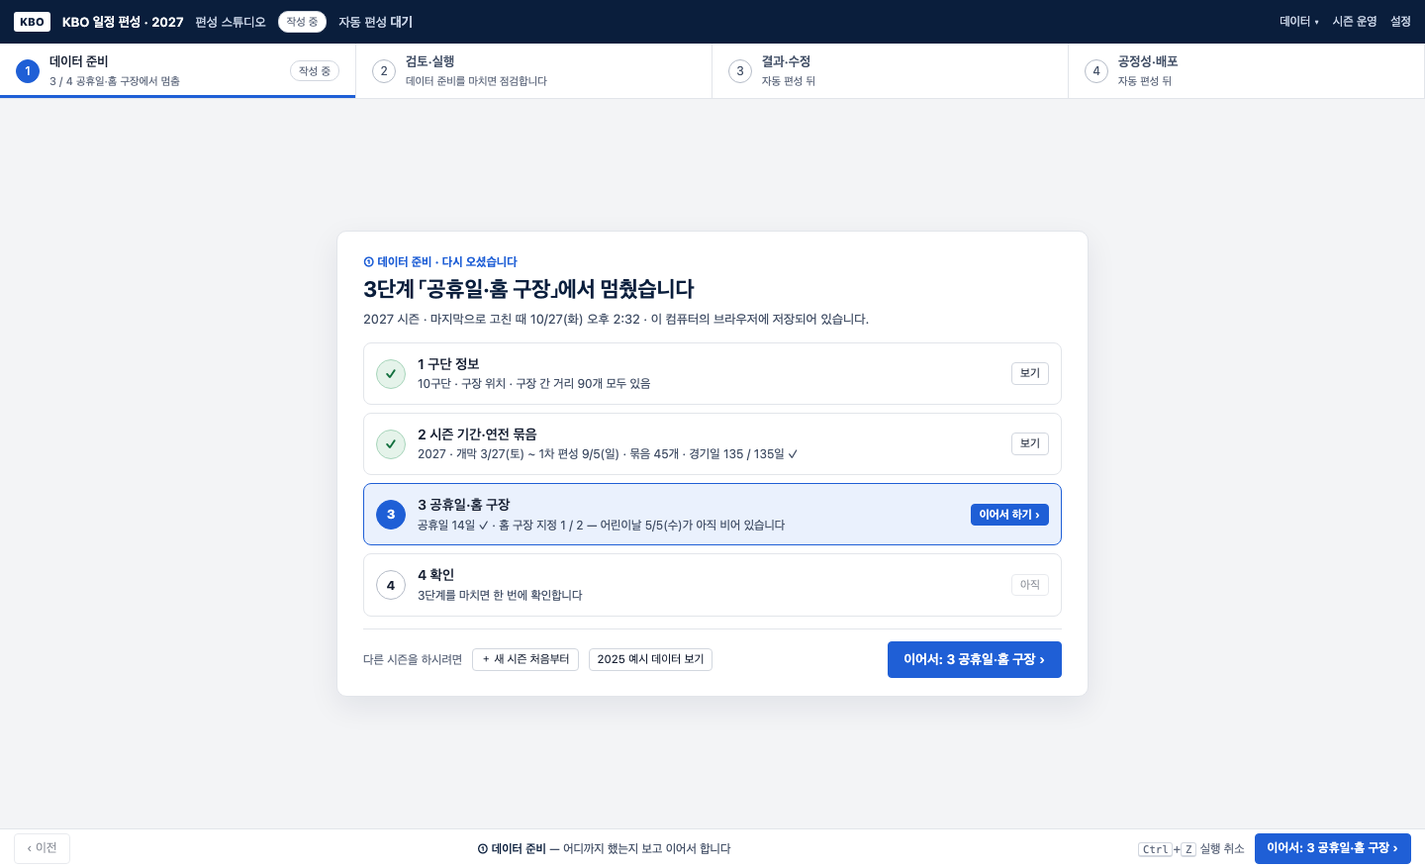
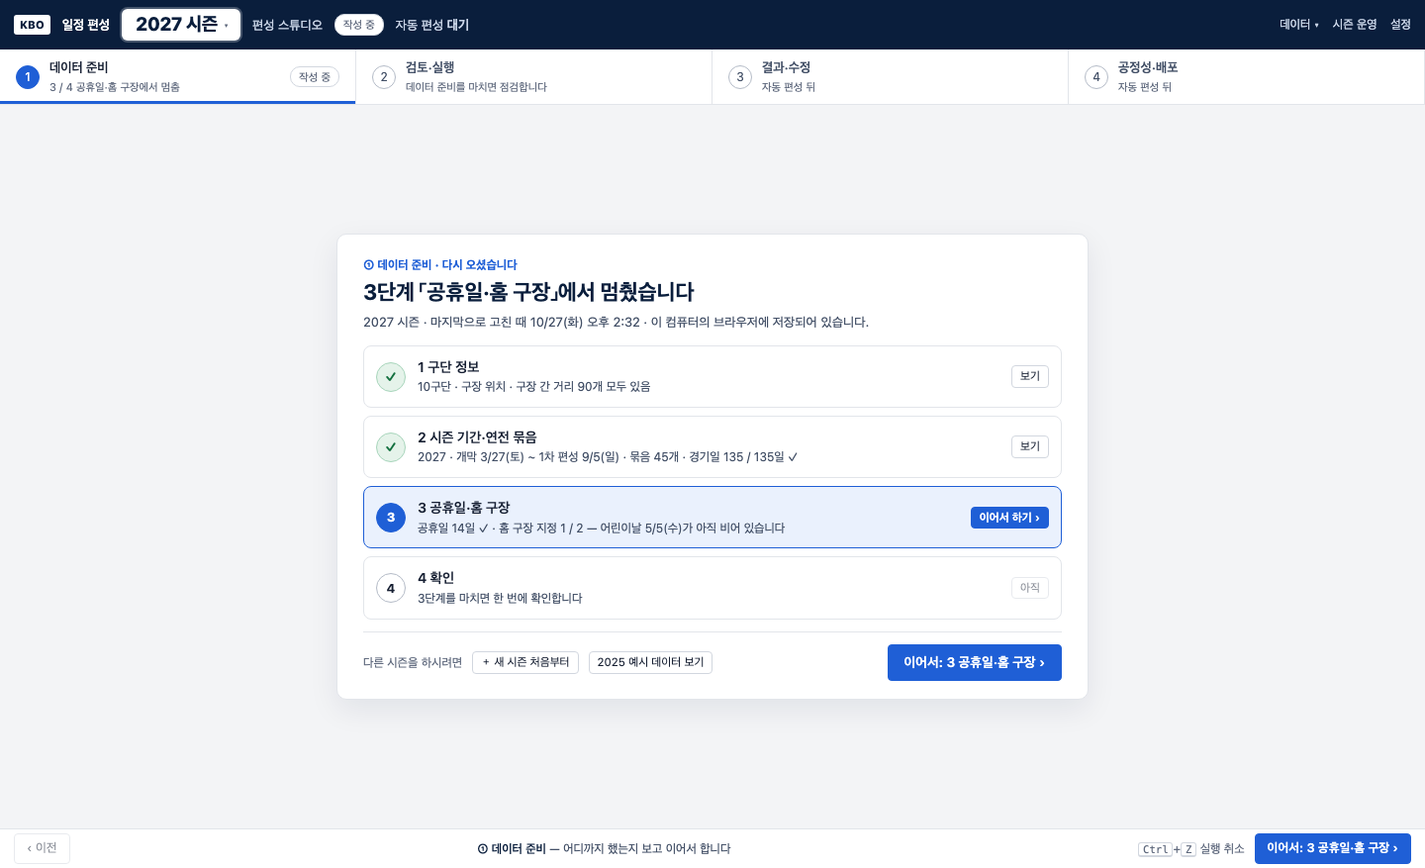
① 단계 흐름 시안: 맨 먼저 시즌 연도 고르기(오늘 기준 2년 뒤까지, 데이터 있음·저장됨·없음 카드) — 고른 연도는 상단 띠 왼쪽에 크게 늘 보이고 모든 단계에 그대로, 2단계는 개막일만.

Changed region(s): [[0.25, 0.2771, 0.75, 0.8312], [0.0, 0.0, 1.0, 0.1231]]

diff --git a/ui-archive/step-flow-concepts/index.html b/ui-archive/step-flow-concepts/index.html
@@ -17,19 +17,28 @@ ul{margin:4px 0;padding-left:20px} li{margin:3px 0}
 a{color:#1F5FD6}
 </style></head><body><main>
 <h1>① 데이터 준비 — 단계 흐름 시안</h1>
-<p class="lead">2026-10-29 사용자와 정한 것: ① 안을 4단계로 나누고, 지금 어느 단계인지 늘 보이게, 비어 있으면 그 자리에서 따라 하기로 안내, 다시 들어오면 「어디까지 했는지」 한 장부터. 데이터는 이 브라우저에 저장(DB는 나중에). 정적 시안이라 실제 화면은 아직 바꾸지 않았습니다.</p>
-<div class="box"><b>순서</b><div class="flow"><span>1 구단 정보</span>→<span class="b">2 시즌 기간·연전 묶음 (같이)</span>→<span class="b">3 공휴일·홈 구장 (같은 달력)</span>→<span>4 확인</span>→<span>② 검토·실행</span></div>
-<ul><li><b>단계 띠</b>: 위 ①~④ 아래에 ① 안의 4단계를 늘 보여 줍니다. 단계마다 상태 한 줄(「✓ 경기일 135 / 135일」, 「개막일을 골라 주세요」)과 <b>「지금 여기」</b>. 끝난 단계는 초록, 지금은 파랑.</li>
-<li><b>2단계는 손이 거의 안 가게</b>: 정할 것은 시즌 연도와 개막일(토요일 중 고르기)뿐. 1차 편성 종료일은 「경기일 135일이 되는 날」로, 올스타 휴식기는 7월 둘째 금요일로, 연전 묶음은 2025 공식 일정표 관행대로 자동. 고칠 곳만 달력에서 끕니다.</li>
+<p class="lead">2026-10-29 사용자와 정한 것: <b>맨 먼저 시즌 연도</b>(오늘 기준 2년 뒤까지, 고르면 위쪽에 크게 늘 보이고 모든 단계에 그대로 적용), ① 안을 4단계로 나누고, 지금 어느 단계인지 늘 보이게, 비어 있으면 그 자리에서 따라 하기로 안내, 다시 들어오면 「어디까지 했는지」 한 장부터. 데이터는 이 브라우저에 저장(DB는 나중에). 정적 시안이라 실제 화면은 아직 바꾸지 않았습니다.</p>
+<div class="box"><b>순서</b><div class="flow"><span class="b">시즌 연도</span>→<span>1 구단 정보</span>→<span class="b">2 시즌 기간·연전 묶음 (같이)</span>→<span class="b">3 공휴일·홈 구장 (같은 달력)</span>→<span>4 확인</span>→<span>② 검토·실행</span></div>
+<ul><li><b>시즌 연도가 맨 먼저</b>: 그 해 데이터가 있으면(2025 기본 제공 · 이 브라우저에 저장한 해) 「어디까지 했는지」로, 없으면 1 구단 정보부터 새로 입력. 데이터는 연도별로 저장.</li>
+<li><b>단계 띠</b>: 위 ①~④ 아래에 ① 안의 4단계를 늘 보여 줍니다. 단계마다 상태 한 줄(「✓ 경기일 135 / 135일」, 「개막일을 골라 주세요」)과 <b>「지금 여기」</b>. 끝난 단계는 초록, 지금은 파랑.</li>
+<li><b>2단계는 손이 거의 안 가게</b>: 연도는 이미 정했으니 정할 것은 개막일(토요일 중 고르기) 하나뿐. 1차 편성 종료일은 「경기일 135일이 되는 날」로, 올스타 휴식기는 7월 둘째 금요일로, 연전 묶음은 2025 공식 일정표 관행대로 자동. 고칠 곳만 달력에서 끕니다.</li>
 <li><b>3단계는 2단계가 끝난 뒤 같은 달력에서</b>: 공휴일 표(가중치)와 날을 눌러 홈 구장 지정. 공휴일을 바꿔 묶음 규칙이 달라지면 「묶음에 반영할까요?」를 묻습니다.</li>
 <li><b>데이터가 이미 있으면</b> 단계를 하나씩 눌러 확인합니다(4 확인 화면의 「고치기」).</li></ul></div>
 
-<h2>0 · 다시 왔을 때 — 어디까지 했는지</h2>
+<h2>추천: 시즌 연도는 상단 띠 왼쪽, 로고 바로 뒤에 크게</h2>
+<div class="box"><ul>
+<li><b>자리</b>: 맨 위 남색 띠의 왼쪽, 「KBO 일정 편성」 바로 뒤. 흰 바탕에 큰 글자 「<b>2027 시즌 ▾</b>」. ① 데이터 준비뿐 아니라 ② 검토·실행 · ③ 결과·수정 · ④ 공정성·배포 · 시즌 운영 모든 화면에서 같은 자리에 늘 보입니다.</li>
+<li><b>왜 여기</b>: 화면을 열면 눈이 가장 먼저 가는 왼쪽 위이고, 남색 띠 위의 흰 칸이라 다른 것과 섞이지 않습니다. 연도는 ①만이 아니라 편성 전체(②~④)에 걸리는 값이라 모든 단계 위에 있어야 맞습니다. 누르면 연도 고르기(지금 연도는 저장해 두고 넘어감).</li>
+<li><b>한 번 더</b>: ① 안의 단계 띠 앞머리에도 「2027 시즌 · ① 데이터 준비」로 적어, 단계 띠만 봐도 어느 해인지 알 수 있게 했습니다.</li>
+<li><b>고려했다 뺀 자리</b>: 왼쪽 카드 맨 위(①에서만 보이고 ②~④에서 사라짐), 스테퍼 위 큰 제목 줄(세로 공간을 한 줄 더 씀 — 1440×877에서 달력이 줄어듦).</li></ul></div>
+<h2>00 · 맨 먼저 — 시즌 연도 고르기</h2>
+<figure><a href="s00-year.html"><img src="shots/s00-year.png" alt=""></a><figcaption><b>연도 카드 네 장(2025 ~ 오늘 기준 2년 뒤 2028).</b> 카드마다 그 해 데이터가 있는지(있음 · 이 브라우저에 저장됨 · 없음)와 할 일(열기 · 이어서 하기 · 새로 입력). 새 연도는 가장 최근 해의 구단 정보를 가져와 시작합니다. 위쪽 띠의 연도 칸은 고르기 전이라 「시즌 연도를 고르세요」.</figcaption></figure>
+<h2>0 · 그 해 데이터가 있을 때 — 어디까지 했는지</h2>
 <figure><a href="s0-resume.html"><img src="shots/s0-resume.png" alt=""></a><figcaption><b>들어오자마자 이 한 장.</b> 단계마다 완료/진행 중/아직과 들어 있는 것 한 줄, 멈춘 단계에 「이어서 하기」. 마지막으로 고친 때와 「이 브라우저에 저장됨」. 새 시즌·예시 데이터도 여기서.</figcaption></figure>
 <h2>1 · 구단 정보</h2>
 <figure><a href="s1-teams.html"><img src="shots/s1-teams.png" alt=""></a><figcaption><b>질문 하나: 「올해 구장이 바뀐 구단이 있나요?」</b> 없으면 그대로 「다음」. 있으면 지금 구단 정보 화면(구장 찾기·지도·거리)에서 고칩니다. 아래 「다음 단계」 상자로 뒤에 무엇이 오는지 미리 보여 줍니다.</figcaption></figure>
 <h2>2 · 시즌 기간·연전 묶음 — 비어 있을 때 (따라 하기 1 / 3)</h2>
-<figure><a href="s2-empty.html"><img src="shots/s2-empty.png" alt=""></a><figcaption><b>2027 새 시즌.</b> 연도를 고르면 주말·공휴일이 달력에 먼저 보이고, 개막일은 토요일 세 개 중 고르기(추천 표시). 나머지는 「자동」으로 접혀 있습니다. 따라 하기 카드가 지금 할 일 하나만 가리킵니다. 「다음」은 개막일을 고르기 전까지 흐립니다.</figcaption></figure>
+<figure><a href="s2-empty.html"><img src="shots/s2-empty.png" alt=""></a><figcaption><b>2027 새 시즌.</b> 처음에 고른 연도의 주말·공휴일이 달력에 먼저 보이고, 개막일은 토요일 세 개 중 고르기(추천 표시). 나머지는 「자동」으로 접혀 있습니다. 따라 하기 카드가 지금 할 일 하나만 가리킵니다. 「다음」은 개막일을 고르기 전까지 흐립니다.</figcaption></figure>
 <h2>2 · 시즌 기간·연전 묶음 — 개막일을 고른 뒤 (따라 하기 2 / 3)</h2>
 <figure><a href="s2-filled.html"><img src="shots/s2-filled.png" alt=""></a><figcaption><b>3/27(토)를 누르면 끝.</b> 1차 편성 종료일 9/5(일)(경기일 135일이 되는 날), 올스타 7/9~7/14, 8/16(월) 대체공휴일 경기·8/19(목) 휴식까지 자동으로 채우고 묶음 45개 · 135일. 자동으로 채운 것은 「자동」 표시와 이유를 붙여 보여 줍니다. 고칠 곳만 끌거나 누릅니다.</figcaption></figure>
 <h2>3 · 공휴일·홈 구장 — 같은 달력에서 (따라 하기 3 / 3)</h2>
@@ -38,6 +47,7 @@ a{color:#1F5FD6}
 <figure><a href="s4-check.html"><img src="shots/s4-check.png" alt=""></a><figcaption><b>한 장에 모두.</b> 단계별 요약과 「고치기」(그 단계로), 시리즈는 규칙대로 자동으로 만들었다는 한 줄. 데이터가 이미 있는 사람도 여기서 하나씩 눌러 확인합니다.</figcaption></figure>
 
 <div class="box q"><b>여쭤볼 것</b><ul>
+<li>새 연도는 가장 최근 해의 구단 정보를 가져와 시작하면 될까요(시안)? 아니면 비워 두고 처음부터?</li>
 <li>단계 띠(① 아래 4칸)가 지금 어디인지 충분히 보이나요? 아니면 왼쪽 세로 목록이 나을까요?</li>
 <li>2단계에서 개막일을 고르면 바로 묶음을 깔까요(시안), 아니면 「규칙대로 채우기」를 한 번 누르게 할까요?</li>
 <li>따라 하기는 단계마다 처음 한 번씩(시안: 2단계 1·2, 3단계 3)이면 될까요?</li>

diff --git a/ui-archive/step-flow-concepts/s2-empty.html b/ui-archive/step-flow-concepts/s2-empty.html
@@ -4,14 +4,14 @@ const y = 2027, S = { seasonStart: '', initialEnd: '', seasonEnd: '', restWeekda
 const D = Concept.D, sats = ['2027-03-20', '2027-03-27', '2027-04-03'];
 document.querySelector('.body').innerHTML =
   '<aside class="card" style="width:360px"><div class="kick">2 / 4단계</div><h2>시즌 기간·연전 묶음</h2>' +
-  '<p>정할 것은 <b>시즌 연도와 개막일</b>뿐입니다. 고르면 1차 편성 종료일과 연전 묶음(2·3·4연전)을 2025 공식 일정표의 관행대로 채우고, 달력에서 고칠 곳만 끌어서 고칩니다.</p>' +
-  '<div class="ask ok"><div class="q"><span class="no">✓</span>몇 년 시즌인가요?</div><div class="a"><span class="sel">2027 ▾</span></div><div class="why">고르면 그 해 주말·공휴일이 달력에 먼저 보입니다.</div></div>' +
-  '<div class="ask now"><div class="q"><span class="no">2</span>개막일은 언제인가요? <span class="stat blue">지금</span></div><div class="a chips">' + sats.map((d, i) => '<span class="chip' + (i === 1 ? ' rec' : '') + '">' + D.fmt(D.dn(d)) + (i === 1 ? '<small>작년과 같은 주</small>' : '') + '</span>').join('') + '<span class="chip">다른 날…</span></div><div class="why">개막은 늘 토요일(토·일 2연전)이라 토요일만 보여 드립니다.</div></div>' +
+  '<p><b>2027 시즌</b>(처음에 고른 연도)의 주말·공휴일이 달력에 먼저 보입니다. 정할 것은 <b>개막일</b> 하나뿐입니다. 고르면 1차 편성 종료일과 연전 묶음(2·3·4연전)을 2025 공식 일정표의 관행대로 채우고, 달력에서 고칠 곳만 끌어서 고칩니다.</p>' +
+  
+  '<div class="ask now"><div class="q"><span class="no">1</span>2027 시즌 개막일은 언제인가요? <span class="stat blue">지금</span></div><div class="a chips">' + sats.map((d, i) => '<span class="chip' + (i === 1 ? ' rec' : '') + '">' + D.fmt(D.dn(d)) + (i === 1 ? '<small>작년과 같은 주</small>' : '') + '</span>').join('') + '<span class="chip">다른 날…</span></div><div class="why">개막은 늘 토요일(토·일 2연전)이라 토요일만 보여 드립니다.</div></div>' +
   '<div class="fold">▸ <b>나머지는 자동</b> — 1차 편성 종료일(경기일 135일이 되는 날) · 시즌 종료일 10/31 · 휴식 요일 월 · 올스타 휴식기 7/9(금)~7/14(수). 고칠 때만 펼칩니다.</div>' +
   '</aside>' +
   '<main class="main"><div class="head"><b>2027 시즌 달력</b><span class="desc">3월~9월</span><span class="stat todo" style="font-size:13px;padding:3px 10px">경기일 0 / 135일</span><span class="small muted">개막일을 고르면 연전 묶음이 깔립니다</span></div>' +
   '<div class="body2"><div style="display:flex;justify-content:flex-end;margin-bottom:6px">' + Concept.legend([['hol', '공휴일(빨강)'], ['sat', '토요일(파랑)']]) + '</div>' +
   Concept.strip({ S, year: y, from: 3, to: 9, slots: [], big: true, noGame: true, layers: { range: 0, event: 0 } }) + '</div></main>' +
-  Flow.ring(10, 268, 340, 148) +
-  Flow.coach({ n: 1, of: 3, title: '개막일을 하나 눌러 보세요', text: '추천은 3/27(토)입니다. 누르면 2027 시즌 연전 묶음 45개가 규칙대로 달력에 깔립니다. 손댈 것은 거의 없습니다.', x: 366, y: 278, side: 'l' });
+  Flow.ring(10, 166, 340, 148) +
+  Flow.coach({ n: 1, of: 3, title: '개막일을 하나 눌러 보세요', text: '추천은 3/27(토)입니다. 누르면 2027 시즌 연전 묶음 45개가 규칙대로 달력에 깔립니다. 손댈 것은 거의 없습니다.', x: 366, y: 176, side: 'l' });
 </script></body></html>

diff --git a/ui-archive/step-flow-concepts/flow.js b/ui-archive/step-flow-concepts/flow.js
@@ -1,7 +1,8 @@
 /*
  * ① 데이터 준비 단계 흐름 시안 — 공통 틀 (정적 시안 전용, 실제 스튜디오 코드와 무관)
  * 사용자 결정(2026-10-29): ① 안은 4단계 — 1 구단 정보 → 2 시즌 기간·연전 묶음(같이, 손이 거의 안 가게) → 3 공휴일·홈 구장(2가 끝난 뒤 같은 달력에서) → 4 확인.
- * 다시 들어오면 「어디까지 했는지」 한 장을 먼저 보여 주고 이어서 한다. 데이터는 이 브라우저에 저장(DB는 나중에).
+ * 맨 먼저 시즌 연도를 고른다(오늘 기준 2년 뒤까지). 고른 연도는 상단 띠에 크게 늘 보이고 모든 단계에 그대로 쓰인다.
+ * 그 해 데이터가 있으면 「어디까지 했는지」 한 장, 없으면 1 구단 정보부터 새로 입력. 데이터는 이 브라우저에 연도별로 저장(DB는 나중에).
  */
 (function () {
   'use strict';
@@ -18,9 +19,9 @@
     }).join('');
     const cur = F.STEPS[o.at - 1];
     document.body.insertAdjacentHTML('afterbegin',
-      '<header class="top"><span class="logo">KBO</span><b>KBO 일정 편성 · ' + (o.year || 2025) + '</b><span class="sub">편성 스튜디오</span><span class="pill ' + (o.pill || 'todo') + '">' + (o.pillText || '작성 중') + '</span><span class="muted">자동 편성 <b>대기</b></span><span class="r">데이터 ▾ &nbsp;&nbsp; 시즌 운영 &nbsp;&nbsp; 설정</span></header>' +
+      '<header class="top"><span class="logo">KBO</span><b>일정 편성</b>' + (o.noYear ? '<span class="yr empty">시즌 연도를 고르세요</span>' : '<span class="yr" title="눌러서 다른 시즌으로">' + (o.year || 2025) + ' 시즌 <i>▾</i></span>') + '<span class="sub">편성 스튜디오</span><span class="pill ' + (o.pill || 'todo') + '">' + (o.pillText || '작성 중') + '</span><span class="muted">자동 편성 <b>대기</b></span><span class="r">데이터 ▾ &nbsp;&nbsp; 시즌 운영 &nbsp;&nbsp; 설정</span></header>' +
       '<nav class="stepper"><span class="st cur"><i>1</i><div><b>데이터 준비</b><small>' + (o.sum || (cur ? o.at + ' / 4 ' + cur.name : '어디까지 했는지')) + '</small></div><span class="pill ' + (o.pill || 'todo') + '">' + (o.pillText || '작성 중') + '</span></span><span class="st"><i>2</i><div><b>검토·실행</b><small>데이터 준비를 마치면 점검합니다</small></div></span><span class="st"><i>3</i><div><b>결과·수정</b><small>자동 편성 뒤</small></div></span><span class="st"><i>4</i><div><b>공정성·배포</b><small>자동 편성 뒤</small></div></span></nav>' +
-      (o.at ? '<div class="flow"><div class="lead"><b>① 데이터 준비</b><small>' + o.at + ' / 4단계</small></div>' + band + '<div class="tail"><a>☰ 어디까지 했는지</a><a>▦ 모든 표 보기</a></div></div>' : ''));
+      (o.at ? '<div class="flow"><div class="lead"><b>' + (o.year || 2025) + ' 시즌 · ① 데이터 준비</b><small>' + o.at + ' / 4단계</small></div>' + band + '<div class="tail"><a>☰ 어디까지 했는지</a><a>▦ 모든 표 보기</a></div></div>' : ''));
     document.body.insertAdjacentHTML('beforeend', '<footer class="foot">' + (o.prev ? '<span class="btn">‹ 이전: ' + o.prev + '</span>' : '<span class="btn dis">‹ 이전</span>') +
       '<span class="hint">' + (o.hint || '') + '</span><span class="r"><span class="muted"><kbd>Ctrl</kbd>+<kbd>Z</kbd> 실행 취소</span><span class="btn pri' + (o.nextDis ? ' dis' : '') + '">' + (o.next || '') + ' ›</span></span></footer>');
   };

diff --git a/ui-archive/step-flow-concepts/s00-year.html b/ui-archive/step-flow-concepts/s00-year.html
@@ -1,0 +1,20 @@
+<!doctype html><html lang="ko"><head><meta charset="utf-8"><title>00 · 맨 먼저 — 시즌 연도 고르기</title><link rel="stylesheet" href="../input-flow-concepts/concept.css"><link rel="stylesheet" href="flow.css"></head><body><div class="body" style="position:relative"></div><script src="../input-flow-concepts/concept.js"></script><script src="flow.js"></script><script>
+// 고를 수 있는 연도: 데이터가 있는 가장 이른 해(2025) ~ 오늘 기준 2년 뒤. 시안은 오늘 = 2026-10-29
+const today = new Date(Date.UTC(2026, 9, 29)), last = today.getUTCFullYear() + 2;
+Flow.chrome({ at: 0, noYear: true, sum: '시즌 연도를 고르면 시작합니다', hint: '<b>맨 먼저 시즌 연도</b> — 고른 연도는 위쪽에 크게 보이고 모든 단계에 그대로 쓰입니다', next: '이어서: 2027 시즌', nextDis: true });
+const card = (y, cls, what, btn) => '<div class="yc ' + cls + '"><div class="y">' + y + '<small>시즌</small></div><div class="what">' + what + '</div>' + btn + '</div>';
+const Y = [];
+for (let y = 2025; y <= last; y++) Y.push(y);
+const info = {
+  2025: card(2025, 'has', '<span class="stat ok">✓ 데이터 있음</span><br>2025 실제 일정(기본 제공) · 4단계 모두 완료. 단계를 하나씩 눌러 확인합니다.', '<span class="btn">열기</span>'),
+  2026: card(2026, 'new', '<span class="stat todo">데이터 없음</span><br>새로 입력합니다. 구단 정보는 2025 것을 가져와 「바뀐 구장이 있나요?」만 묻습니다.', '<span class="btn">새로 입력</span>'),
+  2027: card(2027, 'cont', '<span class="stat blue">이 브라우저에 저장됨</span><br>3단계 「공휴일·홈 구장」에서 멈춤 · 마지막으로 고친 때 10/27(화) 오후 2:32', '<span class="btn pri">이어서 하기 ›</span>'),
+  2028: card(2028, 'new', '<span class="stat todo">데이터 없음</span><br>새로 입력합니다. 구단 정보는 가장 최근(2027) 것을 가져옵니다.', '<span class="btn">새로 입력</span>')
+};
+document.querySelector('.body').outerHTML = '<div class="resume"><div class="rcard" style="width:1000px">' +
+  '<div class="kick">① 데이터 준비 · 맨 먼저</div><h2>몇 년 시즌을 편성할까요?</h2>' +
+  '<p class="sub">고른 연도는 위쪽 띠에 크게 보이고, 데이터 준비부터 배포까지 모든 단계에 그대로 쓰입니다. 그 해 데이터가 있으면 이어서 하고, 없으면 새로 입력합니다. 오늘(2026-10-29) 기준 2년 뒤(' + last + ')까지 고를 수 있습니다.</p>' +
+  '<div class="years">' + Y.map((y) => info[y]).join('') + '</div>' +
+  '<div class="rfoot"><span>데이터는 이 컴퓨터의 브라우저에 연도별로 저장됩니다. 다른 컴퓨터에서 이어서 하려면 엑셀 서식으로 내려받아 올립니다.</span></div>' +
+  '</div></div>';
+</script></body></html>

diff --git a/ui-archive/step-flow-concepts/flow.css b/ui-archive/step-flow-concepts/flow.css
@@ -79,3 +79,19 @@
 .foot .hint { flex: 1; text-align: center; color: var(--text-2); }
 .foot .hint b { color: var(--navy); }
 .btn.dis { opacity: .5; }
+
+/* 시즌 연도: 상단 띠 왼쪽, 로고·제품 이름 바로 뒤에 크게. 모든 화면(①~④·시즌 운영)에서 같은 자리 */
+.top .yr { display: inline-flex; align-items: center; gap: 6px; height: 32px; padding: 0 12px 0 14px; border-radius: 6px; background: #fff; color: var(--navy); font-size: 19px; font-weight: 800; letter-spacing: -.3px; cursor: pointer; box-shadow: 0 0 0 2px rgba(255,255,255,.25); }
+.top .yr i { font-style: normal; font-size: 11px; color: var(--text-3); font-weight: 400; }
+.top .yr.empty { background: transparent; color: #FFE7A3; font-size: 14px; border: 1px dashed #FFE7A3; box-shadow: none; }
+.top { height: 50px; }
+/* 연도 고르기 화면 */
+.years { display: grid; grid-template-columns: repeat(4, minmax(0, 1fr)); gap: 12px; margin-top: 16px; }
+.yc { border: 1px solid var(--line-2); border-radius: 10px; padding: 16px 16px 14px; background: #fff; display: flex; flex-direction: column; gap: 8px; min-height: 196px; }
+.yc .y { font-size: 34px; font-weight: 800; color: var(--navy); letter-spacing: -1px; line-height: 1; }
+.yc .y small { font-size: 15px; font-weight: 600; letter-spacing: 0; color: var(--text-2); margin-left: 4px; }
+.yc .what { font-size: 12.5px; color: var(--text-2); flex: 1; line-height: 1.55; }
+.yc .btn { justify-content: center; padding: 8px 12px; font-size: 13px; }
+.yc.has { border-color: var(--ok-line); }
+.yc.cont { border-color: var(--blue); box-shadow: 0 0 0 3px var(--blue-weak); }
+.yc.new { border-style: dashed; }

diff --git a/ui-archive/step-flow-concepts/s2-filled.html b/ui-archive/step-flow-concepts/s2-filled.html
@@ -5,8 +5,8 @@ Flow.chrome({ at: 2, year: 2027, sub: { 1: '✓ 그대로', 2: '✓ 경기일 ' 
 const sel = sl.findIndex((s) => D.iso(s.start) === '2027-07-15');
 document.querySelector('.body').innerHTML =
   '<aside class="card" style="width:360px"><div class="kick">2 / 4단계</div><h2>시즌 기간·연전 묶음 <span class="stat ok">✓ 135일</span></h2>' +
-  '<div class="ask ok"><div class="q"><span class="no">✓</span>시즌 연도</div><div class="a"><span class="sel">2027 ▾</span></div></div>' +
-  '<div class="ask ok"><div class="q"><span class="no">✓</span>개막일</div><div class="a chips"><span class="chip on">3/27(토)</span><span class="chip">바꾸기…</span></div></div>' +
+  
+  '<p class="small"><b>2027 시즌</b> · 개막일만 고르면 나머지는 규칙대로 채웠습니다.</p><div class="ask ok"><div class="q"><span class="no">✓</span>개막일</div><div class="a chips"><span class="chip on">3/27(토)</span><span class="chip">바꾸기…</span></div></div>' +
   '<div class="box"><h4>자동으로 채운 것 <span class="r xs"><a>고치기</a></span></h4>' +
   '<div class="line"><span class="k">1차 편성 종료일</span><span class="v">' + D.fmt(D.dn(S.initialEnd)) + ' <span class="auto">경기일 135일이 되는 날</span></span></div>' +
   '<div class="line"><span class="k">시즌 종료일</span><span class="v">10/31(일) <span class="auto">기본</span></span></div>' +

diff --git a/ui-archive/README.md b/ui-archive/README.md
@@ -23,6 +23,6 @@
 | `opus-layout-design/` | (추적하지 않던 폴더) | 레이아웃 와이어프레임 A~E |
 | `opus-layout-design-v2/` | (추적하지 않던 폴더) | 레이아웃 시안 01~07. 06-replay는 이동 경로 재생의 참고 자료다. |
 | `input-flow-concepts/` | `claude/input-flow-ux-d531b4` | ① 데이터 준비 **입력 흐름** 컨셉 시안(2026-10-26). `index.html` 비교 페이지: ★추천안 R(사용자 제안 반영 — 입력은 모두 시즌 달력 한 화면: 끌어서 연전 묶음·눌러서 홈 구장·공휴일 가중치 표·엑셀 왕복·따라 하기) → 지금 9단계의 문제 → 이전 추천안 A(5단계, 띠에 역할 표시 · 특별한 날 달력 하나 · 연전 기간 규칙 + 달력에서 고치기 · 시리즈 규칙 확인만) + 대안 B 달력 한 장 · C 질문형 · D 엑셀 중심. 2025 설정으로 그린 정적 HTML, `shots/` 1440×877, `shot.sh`로 다시 찍는다. |
-| `step-flow-concepts/` | `claude/season-calendar-960478` | ① 데이터 준비 **단계 흐름** 시안(2026-10-29, 사용자 결정 반영): ① 안 4단계(1 구단 정보 → 2 시즌 기간·연전 묶음 → 3 공휴일·홈 구장 → 4 확인), 늘 보이는 단계 띠(「지금 여기」·단계마다 상태 한 줄), 다시 왔을 때 「어디까지 했는지」 한 장, 비어 있을 때 따라 하기, 2단계는 연도·개막일만 고르면 나머지 자동. `index.html` 비교 페이지, 화면 6장 `shots/` 1440×877, `shot.sh`. 공통 모양은 `../input-flow-concepts/concept.css`·`concept.js`를 쓴다. |
+| `step-flow-concepts/` | `claude/season-calendar-960478` | ① 데이터 준비 **단계 흐름** 시안(2026-10-29, 사용자 결정 반영): 맨 먼저 시즌 연도(상단 띠에 크게, 오늘 기준 2년 뒤까지) → ① 안 4단계(1 구단 정보 → 2 시즌 기간·연전 묶음 → 3 공휴일·홈 구장 → 4 확인), 늘 보이는 단계 띠(「지금 여기」·단계마다 상태 한 줄), 다시 왔을 때 「어디까지 했는지」 한 장, 비어 있을 때 따라 하기, 2단계는 연도·개막일만 고르면 나머지 자동. `index.html` 비교 페이지, 화면 7장 `shots/` 1440×877, `shot.sh`. 공통 모양은 `../input-flow-concepts/concept.css`·`concept.js`를 쓴다. |
 
 경위와 결정 사항은 `../KBO_WIZARD_UI_REQUIREMENTS.md` §12~§13에 있다.
